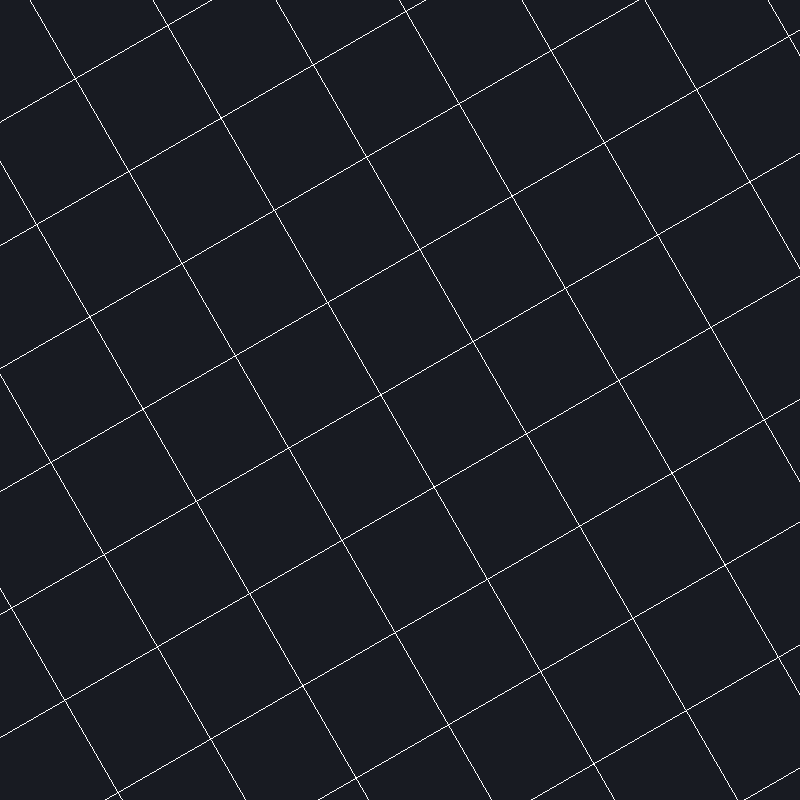
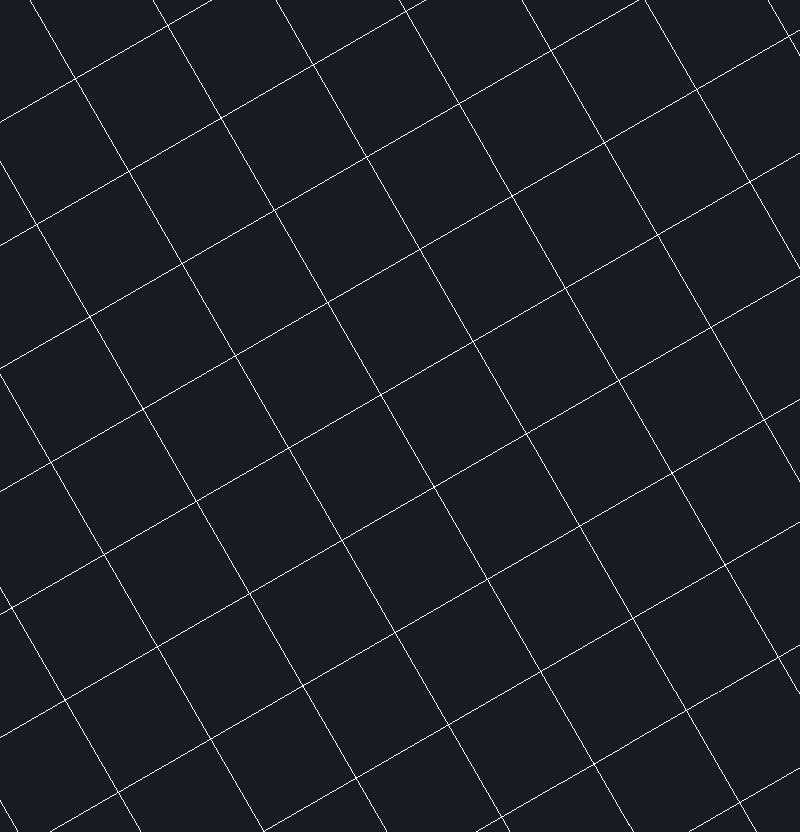
Aumenta tamanho do textura do background

diff --git a/src/me/rogerioferreira/sudoku/game/screens/StartScreen.java b/src/me/rogerioferreira/sudoku/game/screens/StartScreen.java
@@ -66,7 +66,10 @@ public class StartScreen implements com.badlogic.gdx.Screen {
 
     var sudokuTitleTextureX = Game.GAME_SCREEN_SIZE * 0.5f - sudokuTitleTexture.getWidth() * 0.5f;
 
-    this.game.batch.draw(this.bgTexture, 0, 0, Game.GAME_SCREEN_SIZE, Game.GAME_SCREEN_SIZE);
+    this.game.batch.draw(
+        this.bgTexture,
+        0, 0,
+        this.bgTexture.getWidth(), this.bgTexture.getHeight());
 
     this.game.batch.draw(this.sudokuTitleTexture, sudokuTitleTextureX,
         Game.GAME_SCREEN_SIZE * 0.5f - sudokuTitleTexture.getHeight());
